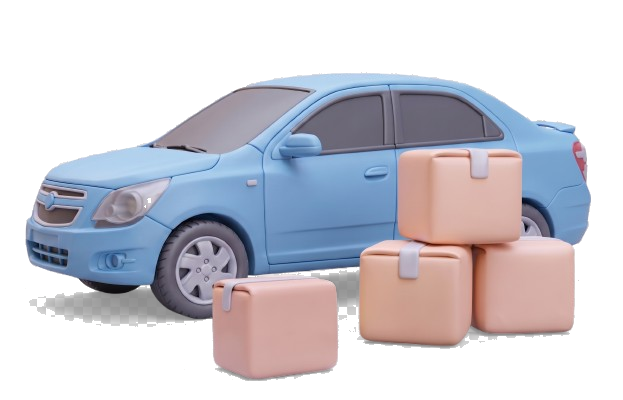
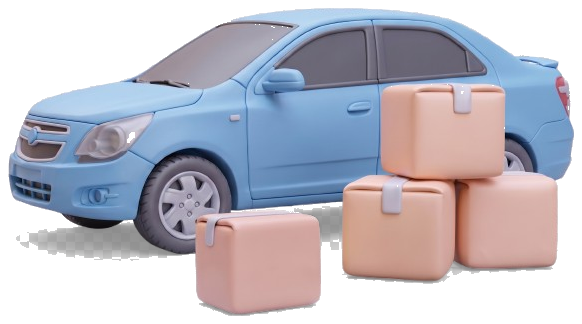
update

diff --git a/index.html b/index.html
@@ -4,7 +4,7 @@
 <meta charset="UTF-8"/>
 <meta name="viewport" content="width=device-width, initial-scale=1.0, maximum-scale=1.0, user-scalable=no"/>
 <title>duvduv</title>
-<link rel="preload" as="image" href="assets/car.png?v=8">
+<link rel="preload" as="image" href="assets/car.png?v=9">
 <link href="https://api.mapbox.com/mapbox-gl-js/v3.3.0/mapbox-gl.css" rel="stylesheet">
 <script src="https://api.mapbox.com/mapbox-gl-js/v3.3.0/mapbox-gl.js"></script>
 <style>
@@ -118,7 +118,9 @@ body.view-sender .header{background:var(--app-bg)!important}
   position:absolute;left:0;right:0;bottom:0;width:100%;
   pointer-events:none;z-index:0;
 }
+#senderView .scene > img{border:none;box-shadow:none;outline:none}
 #senderView.has-active-shipments .scene > img{opacity:.92}
+.shipments-empty,.shipments-list{border:none}
 #senderView .shipments-wrap,
 #senderView .shipments-wrap.visible{
   position:relative;z-index:2;background:transparent;
@@ -1076,7 +1078,7 @@ body.view-sender.theme-telegram .toggle,
       <div id="senderView">
         <div class="sender-body">
           <div class="scene" aria-hidden="true">
-            <img src="assets/car.png?v=8" style="width:100%;max-width:380px;height:230px;object-fit:contain;display:block;margin:0 auto;filter:drop-shadow(0px 24px 20px rgba(0,0,0,0.18)) drop-shadow(0px 6px 8px rgba(0,0,0,0.12));" alt=""/>
+            <img src="assets/car.png?v=9" style="width:100%;max-width:380px;height:230px;object-fit:contain;display:block;margin:-18px auto 0;" alt=""/>
           </div>
           <div class="shipments-wrap" id="shipmentsWrap">
             <div class="shipments-head">Jo'natmalarim</div>
